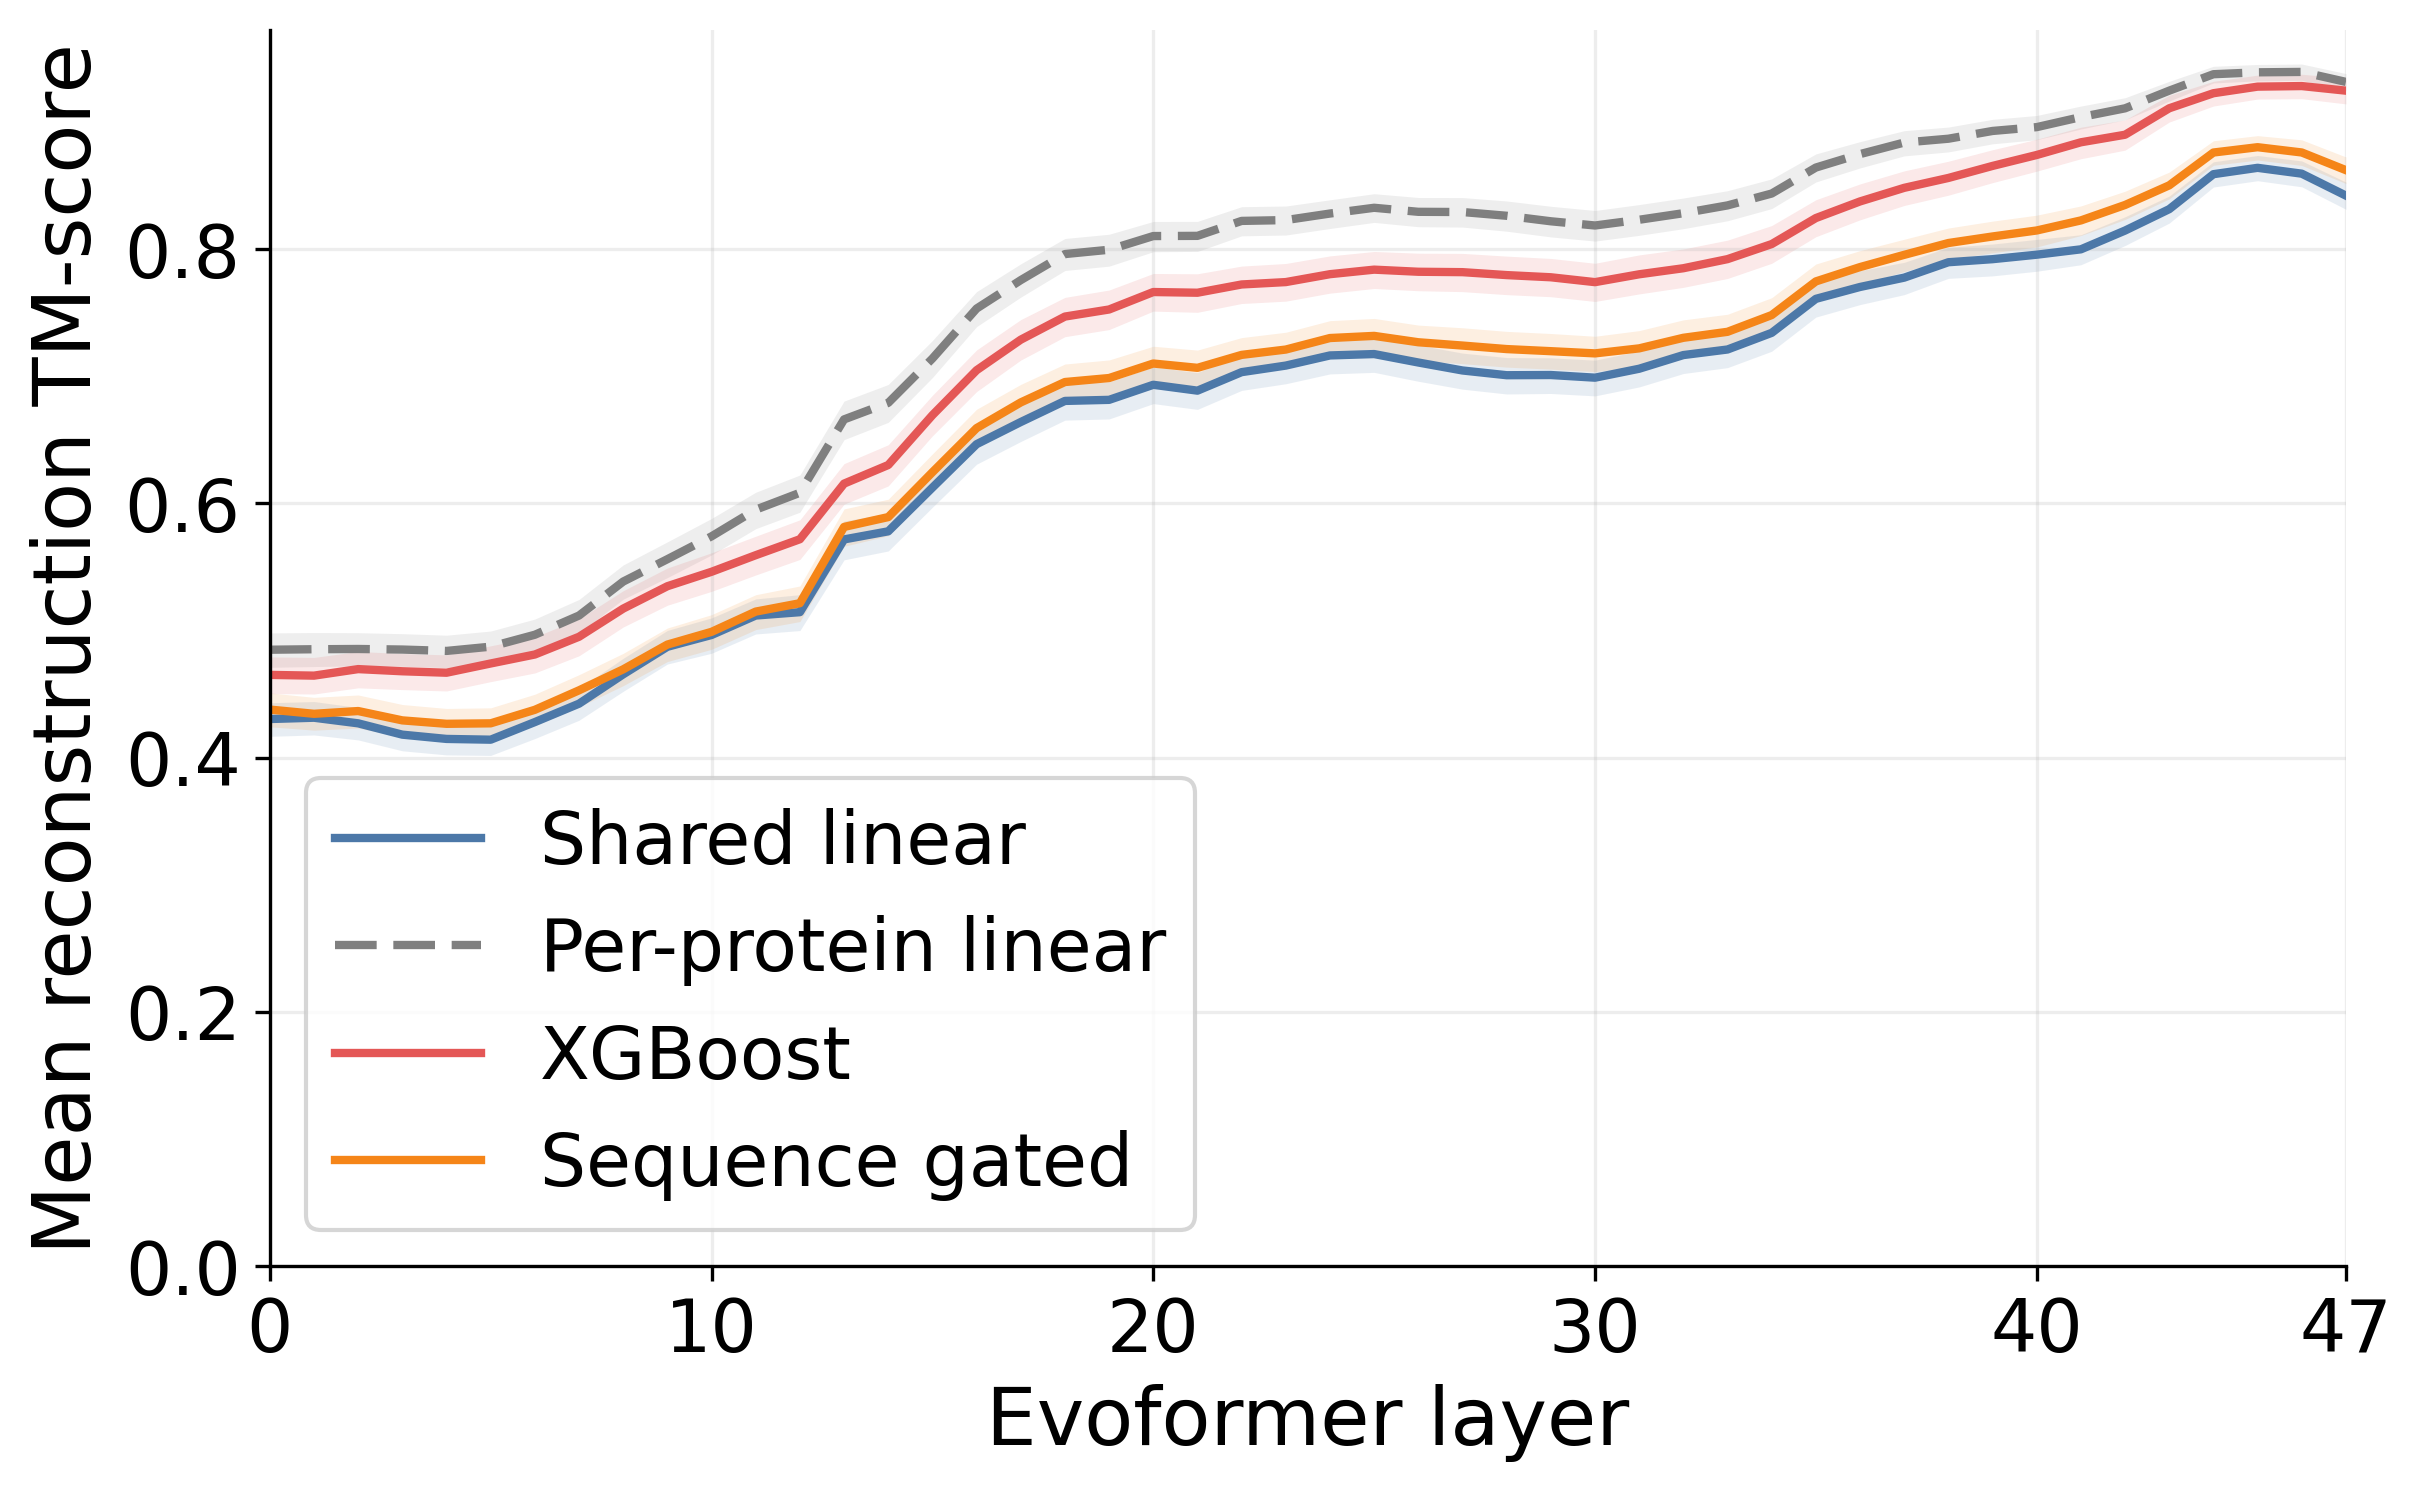
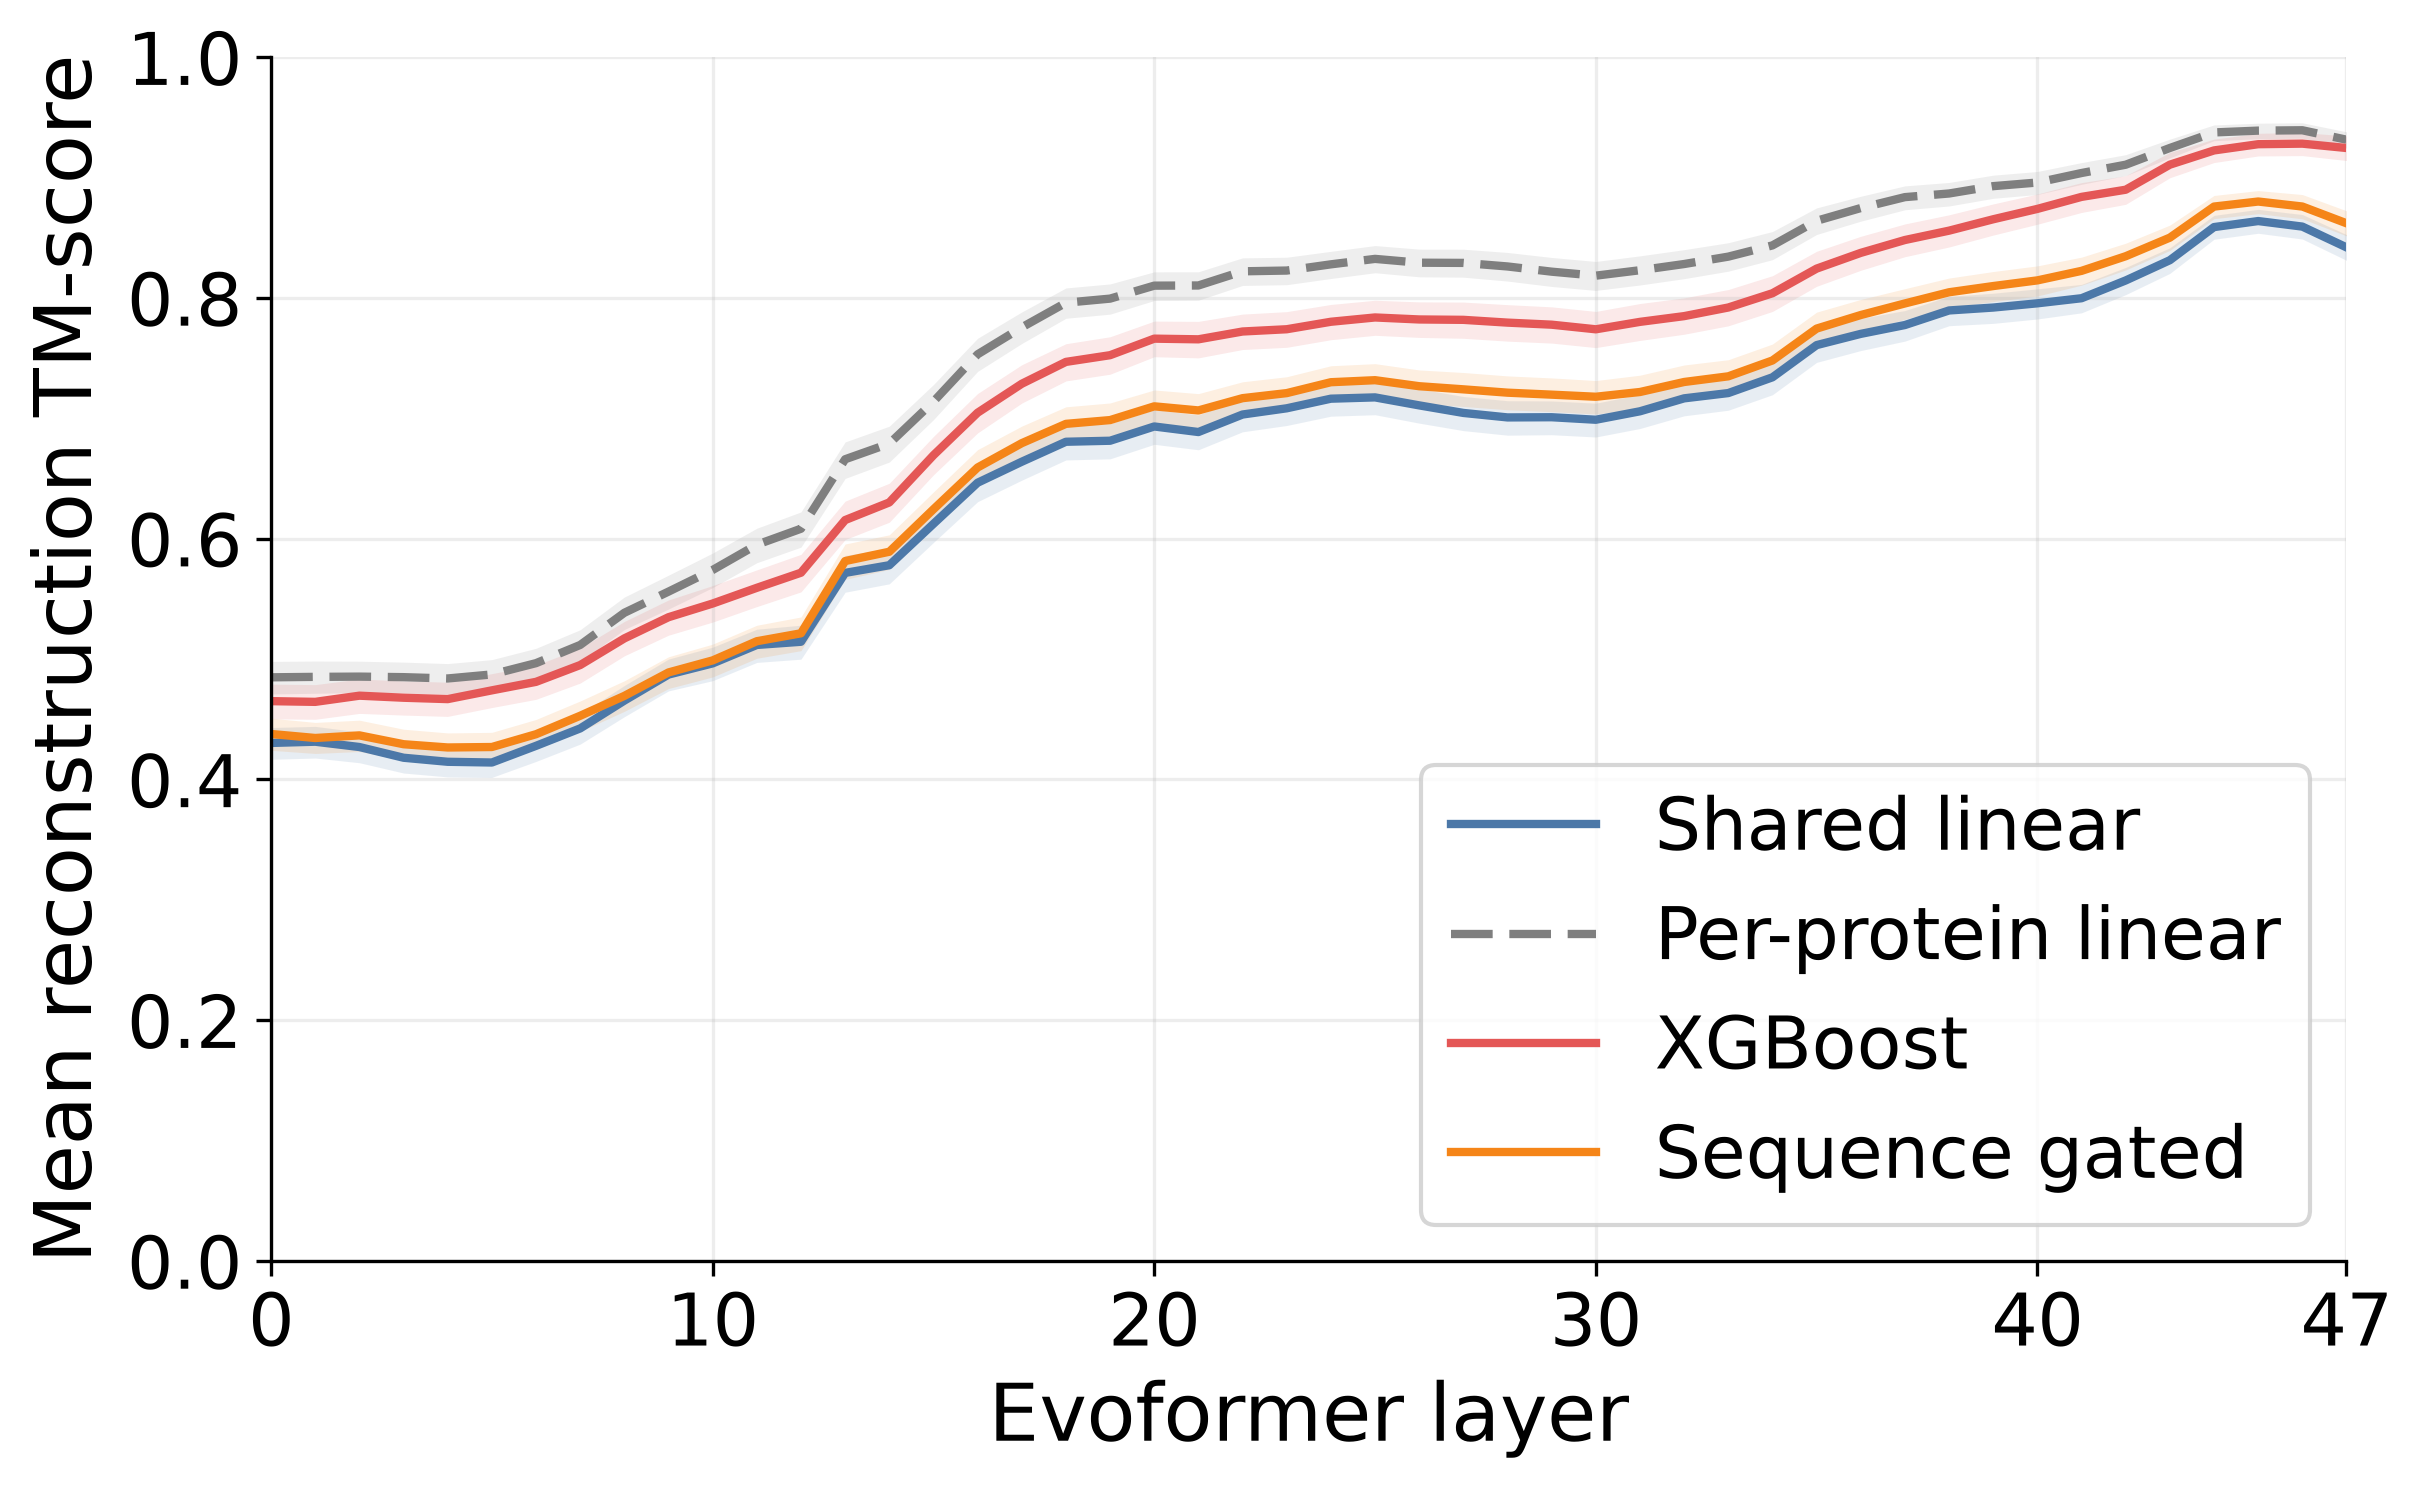
Fix TM-score manuscript figure y-axis to 0–1

diff --git a/scripts/multi_protein/generate_sept_2_publication_plots.py b/scripts/multi_protein/generate_sept_2_publication_plots.py
@@ -939,11 +939,14 @@ def save_figure(figure: plt.Figure, directory: Path, stem: str) -> tuple[Path, P
 
 
 def line_figure(
-    summary: pd.DataFrame, ylabel: str, stem: str, directory: Path, domain: str
+    summary: pd.DataFrame, ylabel: str, stem: str, directory: Path, domain: str,
+    *, ylimits: tuple[float, float] | None = None,
 ) -> tuple[Path, Path]:
     figure, axis = plt.subplots(figsize=(8.4, 5.3))
     plot_model_lines(axis, summary, domain)
     style_layer_axis(axis, ylabel, domain)
+    if ylimits is not None:
+        axis.set_ylim(*ylimits)
     axis.legend(frameon=True)
     figure.tight_layout()
     return save_figure(figure, directory, stem)
@@ -1403,7 +1406,7 @@ def main() -> None:
     manifest.append(manifest_row(stem="main_figure_01_mean_per_protein_r2", section="main", title="Mean per-protein fivefold OOF R2", png=png, pdf=pdf, source_csvs=[source_paths["r2_raw"], source_paths["r2_summary"]], uncertainty=standard_uncertainty))
     png, pdf = line_figure(
         tm_summary, "Mean reconstruction TM-score", "main_figure_03_tm_score",
-        MAIN_DIR, "unit",
+        MAIN_DIR, "unit", ylimits=(0, 1),
     )
     manifest.append(manifest_row(stem="main_figure_03_tm_score", section="main", title="Mean fivefold OOF reconstruction TM-score", png=png, pdf=pdf, source_csvs=[source_paths["tm_raw"], source_paths["tm_summary"]], uncertainty=standard_uncertainty))
 

diff --git a/branch-analysis.md b/branch-analysis.md
@@ -1,5 +1,10 @@
 # Branch Analysis
 
+## Session: 2026-10-05 — Set manuscript TM-score axis to 0–1
+
+Regenerated main Figure 3 from its saved fivefold summary with a fixed 0–1
+TM-score axis and refreshed its PDF/PNG manifest hashes.
+
 ## Session: 2026-09-03 — Enlarge manuscript figure typography
 
 Increased tick and regression-model label sizes across the September 2 main
